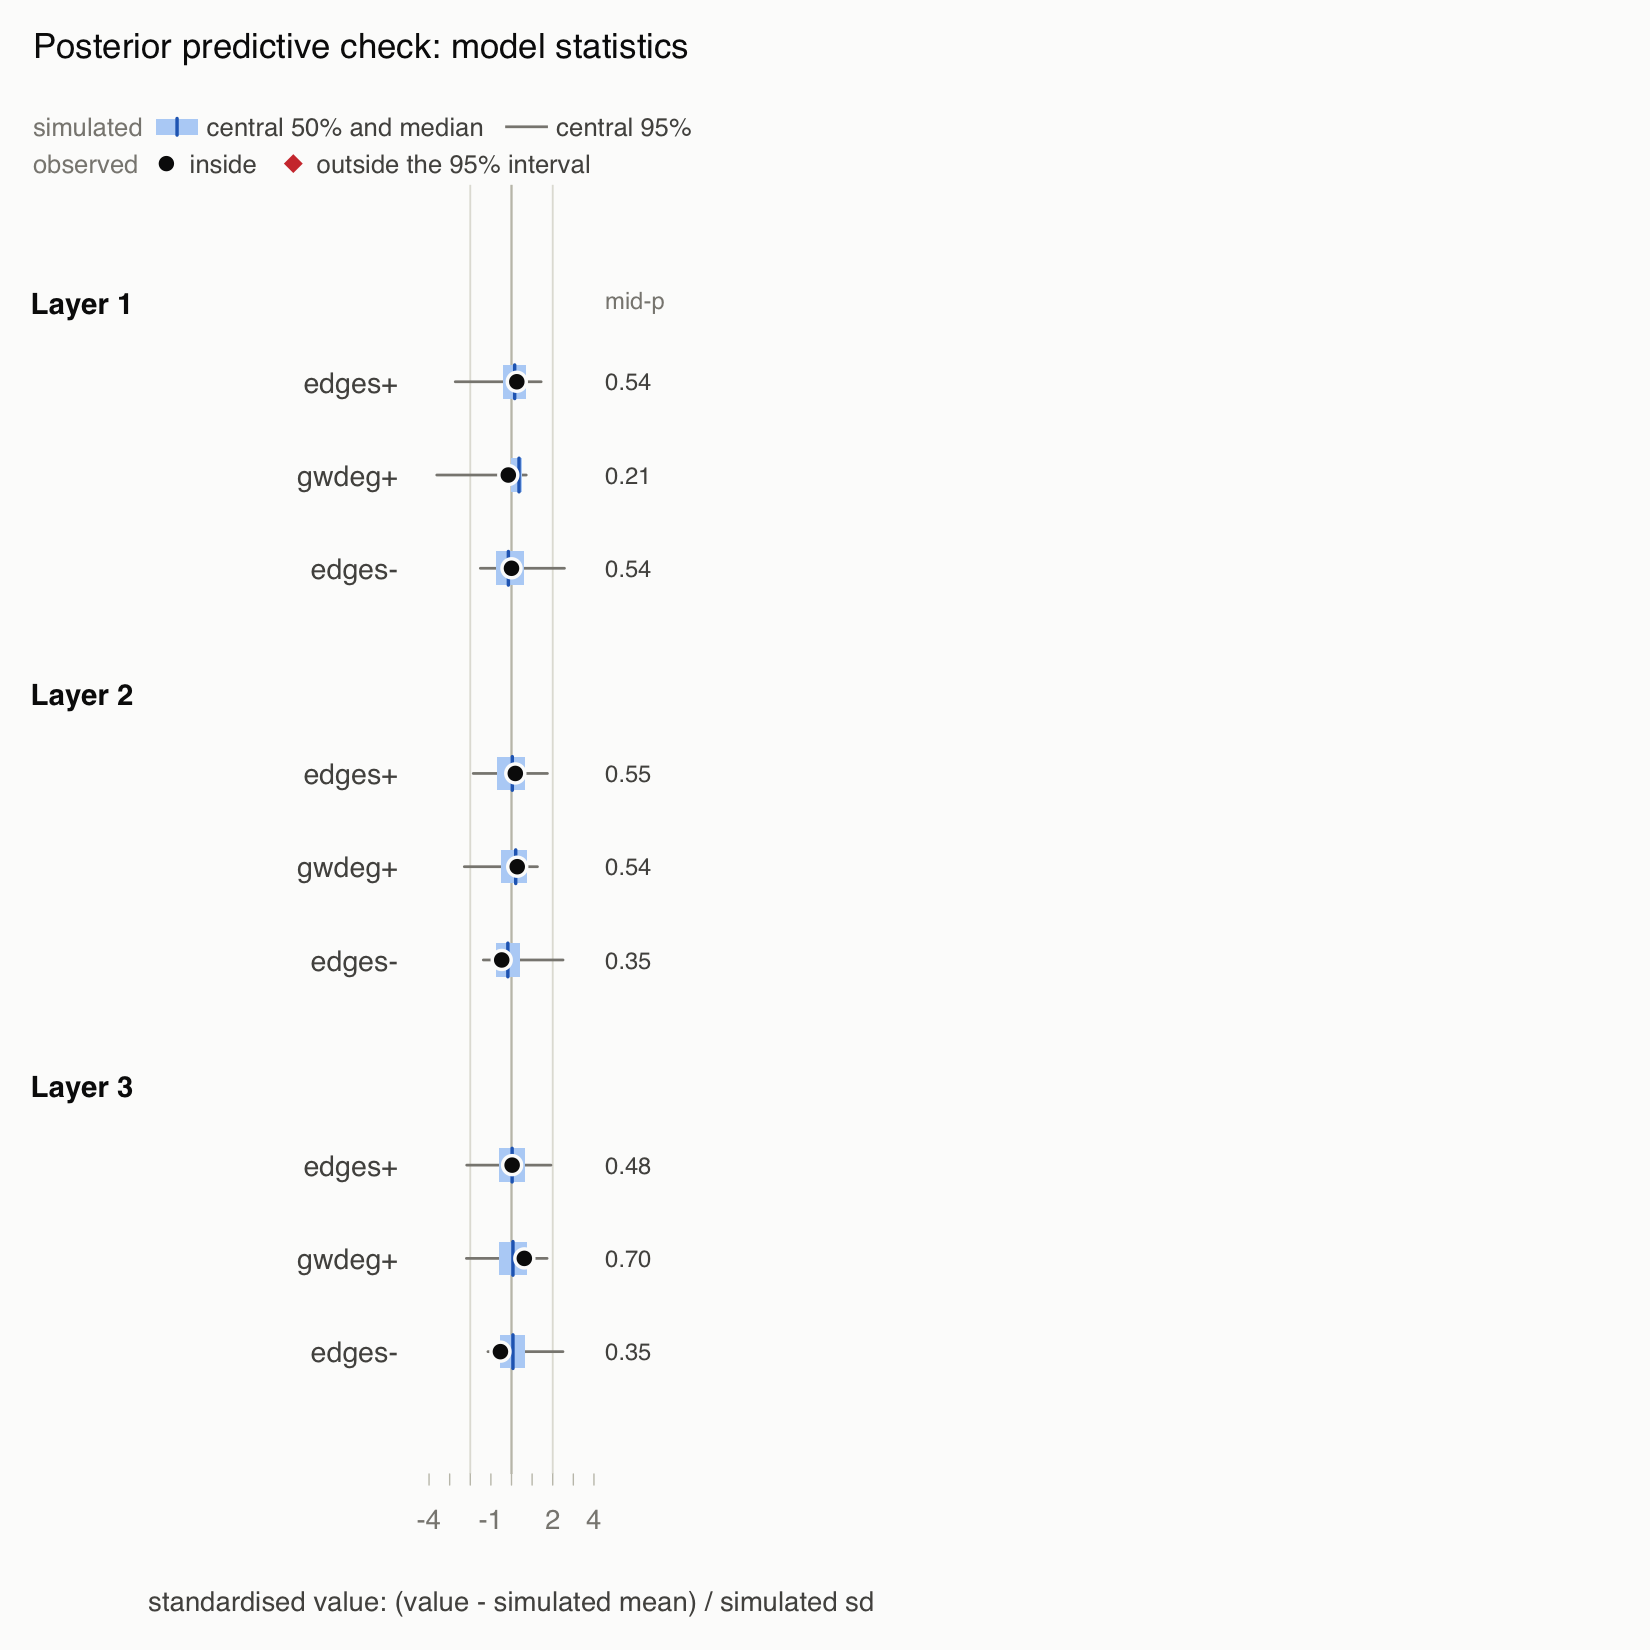
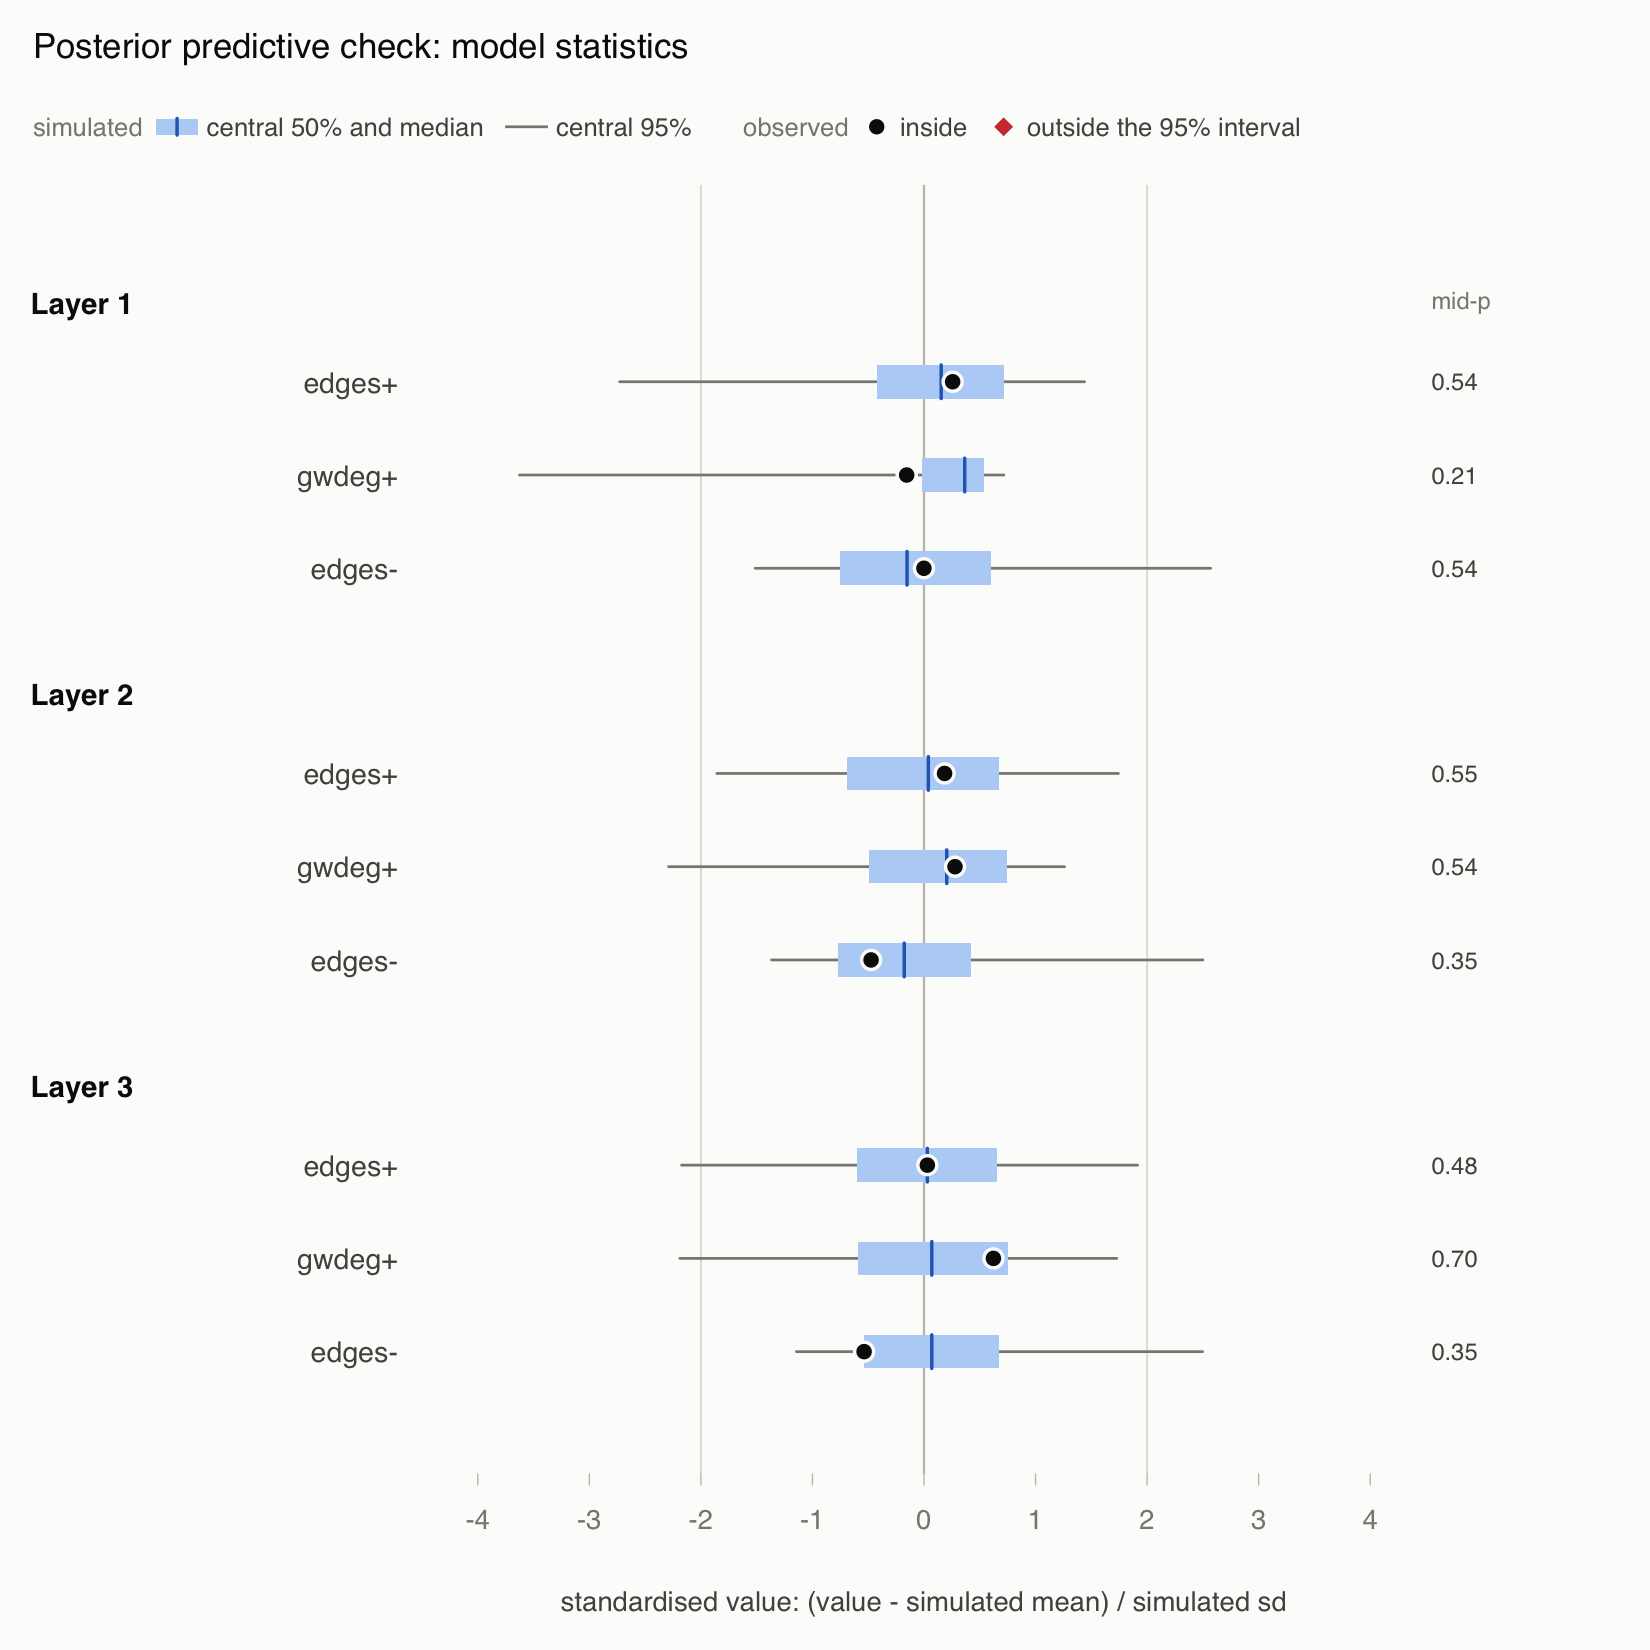
some changes

diff --git a/vignettes/Bergm.ws.html b/vignettes/Bergm.ws.html
@@ -9,7 +9,7 @@
 <meta name="author" content="Alberto Caimo">
 <meta name="author" content="Isabella Gollini">
 
-<title>Bergm.ws: Bayesian multi-layer ERGMs for weighted and signed weighted networks</title>
+<title>Bergm.ws: Bayesian multi-layer dissolution ERGMs for weighted and signed weighted networks</title>
 <style>
 code{white-space: pre-wrap;}
 span.smallcaps{font-variant: small-caps;}
@@ -123,7 +123,7 @@ window.Quarto = {
 
 <header id="title-block-header" class="quarto-title-block default">
 <div class="quarto-title">
-<h1 class="title"><strong>Bergm.ws</strong>: Bayesian multi-layer ERGMs for weighted and signed weighted networks</h1>
+<h1 class="title"><strong>Bergm.ws</strong>: Bayesian multi-layer dissolution ERGMs for weighted and signed weighted networks</h1>
 </div>
 
 
@@ -362,7 +362,7 @@ layer 3     32  40.14      1</code></pre>
 <div class="cell-output cell-output-stdout">
 <pre><code>Hierarchical multi-layer dissolution ERGM, signed weighted network
   adaptive exchange (joint update)
-  3 chains, 40,500 retained draws, 6620 auxiliary MCMC steps per exchange, 115 s
+  3 chains, 40,500 retained draws, 6620 auxiliary MCMC steps per exchange, 120 s
   acceptance after burn-in: 0.26, 0.26, 0.26 
   delayed acceptance: 45% of the proposals needed an auxiliary network
 
@@ -399,7 +399,7 @@ sd:edges- 0.343 0.088 0.221 0.327 0.559 1.000 2,182
 Convergence: max Rhat 1.017, min ESS 242, max |corr| between layers 0.42</code></pre>
 </div>
 </div>
-<p>The fit took 115 seconds. The largest <span class="math inline">\(\hat R\)</span> is 1.017 and the smallest effective sample size 242, which is adequate for this example. Delayed acceptance needed an auxiliary network for only 45% of the proposals.</p>
+<p>The fit took 120 seconds. The largest <span class="math inline">\(\hat R\)</span> is 1.017 and the smallest effective sample size 242, which is adequate for this example. Delayed acceptance needed an auxiliary network for only 45% of the proposals.</p>
 </section>
 <section id="results" class="level3">
 <h3 class="anchored" data-anchor-id="results">Results</h3>
@@ -449,8 +449,7 @@ layer 3   0.67  -0.59  -1.37</code></pre>
 <p>Posterior predictive networks are compared with the observed one on the model statistics and on statistics the model does not contain: the four kinds of signed triangles and the spread of the positive degrees in every layer.</p>
 <div class="cell" data-layout-align="center">
 <div class="sourceCode cell-code" id="cb18"><pre class="sourceCode r code-with-copy"><code class="sourceCode r"><span id="cb18-1"><a href="#cb18-1" aria-hidden="true" tabindex="-1"></a>y_rep <span class="ot">&lt;-</span> <span class="fu">ws_predictive</span>(post, <span class="at">nsim =</span> <span class="dv">200</span>, <span class="at">seed =</span> <span class="dv">2</span>, <span class="at">verbose =</span> <span class="cn">FALSE</span>)</span>
-<span id="cb18-2"><a href="#cb18-2" aria-hidden="true" tabindex="-1"></a><span class="fu">par</span>(<span class="at">mfrow =</span> <span class="fu">c</span>(<span class="dv">1</span>, <span class="dv">2</span>))</span>
-<span id="cb18-3"><a href="#cb18-3" aria-hidden="true" tabindex="-1"></a><span class="fu">plot</span>(y_rep, <span class="at">what =</span> <span class="st">"model"</span>)</span></code><button title="Copy to Clipboard" class="code-copy-button"><i class="bi"></i></button></pre></div>
+<span id="cb18-2"><a href="#cb18-2" aria-hidden="true" tabindex="-1"></a><span class="fu">plot</span>(y_rep, <span class="at">what =</span> <span class="st">"model"</span>)</span></code><button title="Copy to Clipboard" class="code-copy-button"><i class="bi"></i></button></pre></div>
 <div class="cell-output-display">
 <div class="quarto-figure quarto-figure-center">
 <figure class="figure">
@@ -468,7 +467,7 @@ layer 3   0.67  -0.59  -1.37</code></pre>
 </div>
 </div>
 <p>The model describes how many positive and negative edges survive and how they are spread over the nodes, but contains no term for triangles, so statistics of triangle closure are where it is most likely to fail. A natural extension adds a shared-partner term to every layer, for instance <code>gwespL(0.5, fixed = TRUE, L.base = ~(z &amp; x_k), Ls.path = list(~(z &amp; x_k), ~(z &amp; x_k)))</code> for positive triangles (labelled <code>gwesp+++</code>), usually with <code>scale = "gwesp"</code> so that its coefficient is comparable across layers.</p>
-<p>Finally, <code>ws_aux_check()</code> compares auxiliary networks of the length used by the sampler with networks from chains twenty times longer, at the posterior mean:</p>
+<p>Finally, <code>ws_aux_check()</code> compares auxiliary networks of the length used by the sampler with networks from chains 20 times longer, at the posterior mean:</p>
 <div class="cell" data-layout-align="center">
 <div class="sourceCode cell-code" id="cb20"><pre class="sourceCode r code-with-copy"><code class="sourceCode r"><span id="cb20-1"><a href="#cb20-1" aria-hidden="true" tabindex="-1"></a><span class="fu">ws_aux_check</span>(post, <span class="at">seed =</span> <span class="dv">3</span>)</span></code><button title="Copy to Clipboard" class="code-copy-button"><i class="bi"></i></button></pre></div>
 <div class="cell-output cell-output-stdout">
@@ -558,7 +557,7 @@ layer 3    33                18  12.72</code></pre>
 <div class="cell-output cell-output-stdout">
 <pre><code>Hierarchical multi-layer dissolution ERGM, unsigned weighted network
   adaptive exchange (joint update)
-  4 chains, 18,000 retained draws, 4280 auxiliary MCMC steps per exchange, 49 s
+  4 chains, 18,000 retained draws, 4280 auxiliary MCMC steps per exchange, 52 s
   acceptance after burn-in: 0.27, 0.26, 0.26, 0.27 
   delayed acceptance: 46% of the proposals needed an auxiliary network
   GWESP statistics rescaled by exp(-decay) 
@@ -645,7 +644,7 @@ Convergence: max Rhat 1.023, min ESS 203, max |corr| between layers 0.46</code><
 <p><strong>3. The hierarchical mean integrated out.</strong> When the layers move together, <span class="math inline">\(\varphi\)</span> and <span class="math inline">\(\mu\)</span> are strongly dependent and the plain Gibbs scheme is slow. Given <span class="math inline">\(\Sigma\)</span>, <span class="math inline">\(\mu\)</span> is integrated out analytically, <span class="math display">\[
 \varphi \mid \Sigma \sim \mathcal{N}\big(1_K \otimes \mu_0,\;
 I_K \otimes \Sigma + J_K \otimes \Sigma_0\big),
-\]</span> with <span class="math inline">\(J_K\)</span> the <span class="math inline">\(K \times K\)</span> matrix of <span class="math inline">\(1\)</span>s. The exchange step uses this prior (<code>collapse_mu = TRUE</code>); <span class="math inline">\(\mu\)</span> is then drawn from <span class="math inline">\(\mathcal{N}(m_\mu, S_\mu)\)</span> with <span class="math inline">\(S_\mu = (\Sigma_0^{-1} + K\Sigma^{-1})^{-1}\)</span> and <span class="math inline">\(m_\mu = S_\mu(\Sigma_0^{-1}\mu_0 + K\Sigma^{-1}\bar\varphi)\)</span>, and <span class="math inline">\(\Sigma\)</span> from <span class="math inline">\(\mathrm{IW}(\nu_0 + K, S_0 + \sum_k (\varphi_k - \mu)(\varphi_k - \mu)^\top)\)</span>: a partially collapsed Gibbs sampler (van Dyk and Park, 2008).</p>
+\]</span> with <span class="math inline">\(J_K\)</span> the <span class="math inline">\(K \times K\)</span> matrix of <span class="math inline">\(1\)</span>’s. The exchange step uses this prior (<code>collapse_mu = TRUE</code>); <span class="math inline">\(\mu\)</span> is then drawn from <span class="math inline">\(\mathcal{N}(m_\mu, S_\mu)\)</span> with <span class="math inline">\(S_\mu = (\Sigma_0^{-1} + K\Sigma^{-1})^{-1}\)</span> and <span class="math inline">\(m_\mu = S_\mu(\Sigma_0^{-1}\mu_0 + K\Sigma^{-1}\bar\varphi)\)</span>, and <span class="math inline">\(\Sigma\)</span> from <span class="math inline">\(\mathrm{IW}(\nu_0 + K, S_0 + \sum_k (\varphi_k - \mu)(\varphi_k - \mu)^\top)\)</span>: a partially collapsed Gibbs sampler (van Dyk and Park, 2008).</p>
 <p><strong>4. Adaptation in three phases.</strong> During the burn-in the proposal covariance is re-estimated as <span class="math inline">\(0.95\,\widehat{\mathrm{Cov}} + 0.05\,B_0\)</span> from the second half of the chain’s history (Haario et al., 2001), and the scale is tuned towards an acceptance rate of 0.234. With several chains (<code>pool_adaptation = TRUE</code>), each chain adapts on its own during the first three quarters of the burn-in; the within-chain covariances are then averaged and given to every chain, which only tunes the scale during the last quarter; finally the scale is set to the geometric mean over the chains and the proposal is frozen. The retained draws of all chains come from the same Markov kernel. With <code>update = "layer"</code> the step is repeated for each layer in turn, with one auxiliary network per layer.</p>
 <section id="technical-improvements-over-the-basic-exchange-sampler" class="level3">
 <h3 class="anchored" data-anchor-id="technical-improvements-over-the-basic-exchange-sampler">Technical improvements over the basic exchange sampler</h3>
@@ -732,7 +731,7 @@ I_K \otimes \Sigma + J_K \otimes \Sigma_0\big),
 </table>
 </div>
 </div>
-<p>“Simulated” is the share of proposals that needed an auxiliary network, ESS the effective sample size over all chains of <span class="math inline">\(\varphi\)</span> and <span class="math inline">\(\mu\)</span>, and the columns are averages over the two seeds. Delayed acceptance simulates a network for fewer than half of the proposals and raises the effective sample size per minute by a factor of 1.6; integrating out <span class="math inline">\(\mu\)</span> adds a further factor of 1.6. Pooling the adaptation does not change the efficiency much, but it gives all chains the same kernel and, in these runs, the lowest <span class="math inline">\(\hat R\)</span>. All <span class="math inline">\(\hat R\)</span> values are above 1.05 because the runs are deliberately short: they compare samplers, not final analyses.</p>
+<p>Delayed acceptance simulates a network for fewer than half of the proposals and raises the effective sample size per minute by a factor of 1.6; integrating out <span class="math inline">\(\mu\)</span> adds a further factor of 1.6. Pooling the adaptation does not change the efficiency much, but it gives all chains the same kernel and, in these runs, the lowest <span class="math inline">\(\hat R\)</span> (these values are above 1.05 because the runs are deliberately short so as to compare samplers).</p>
 </section>
 <section id="practical-advice" class="level3">
 <h3 class="anchored" data-anchor-id="practical-advice">Practical advice</h3>
